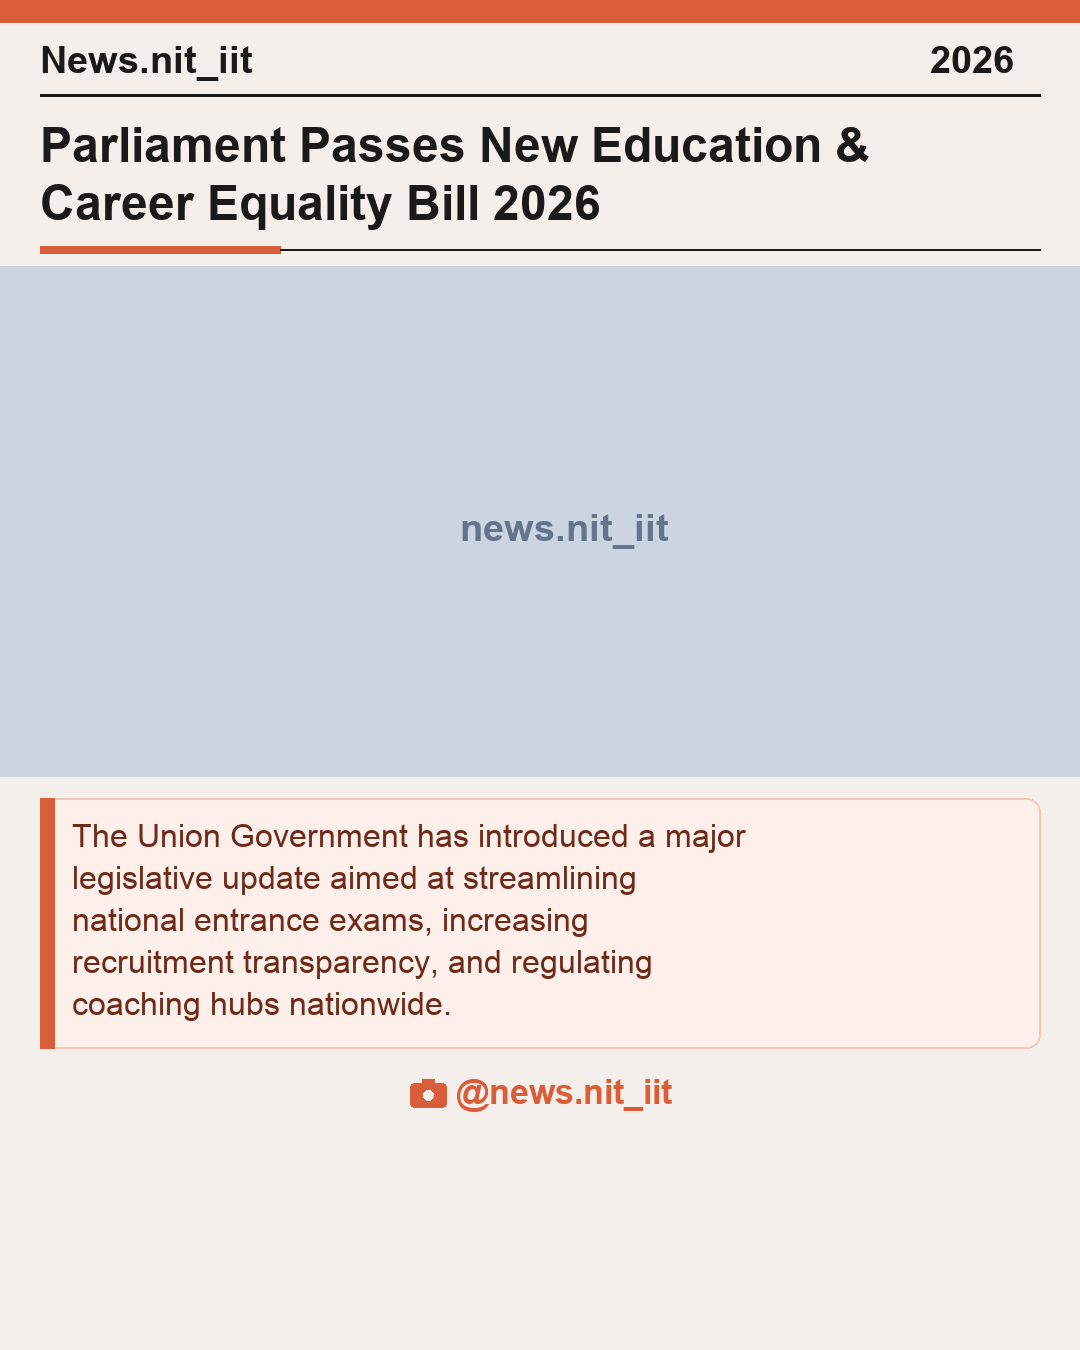
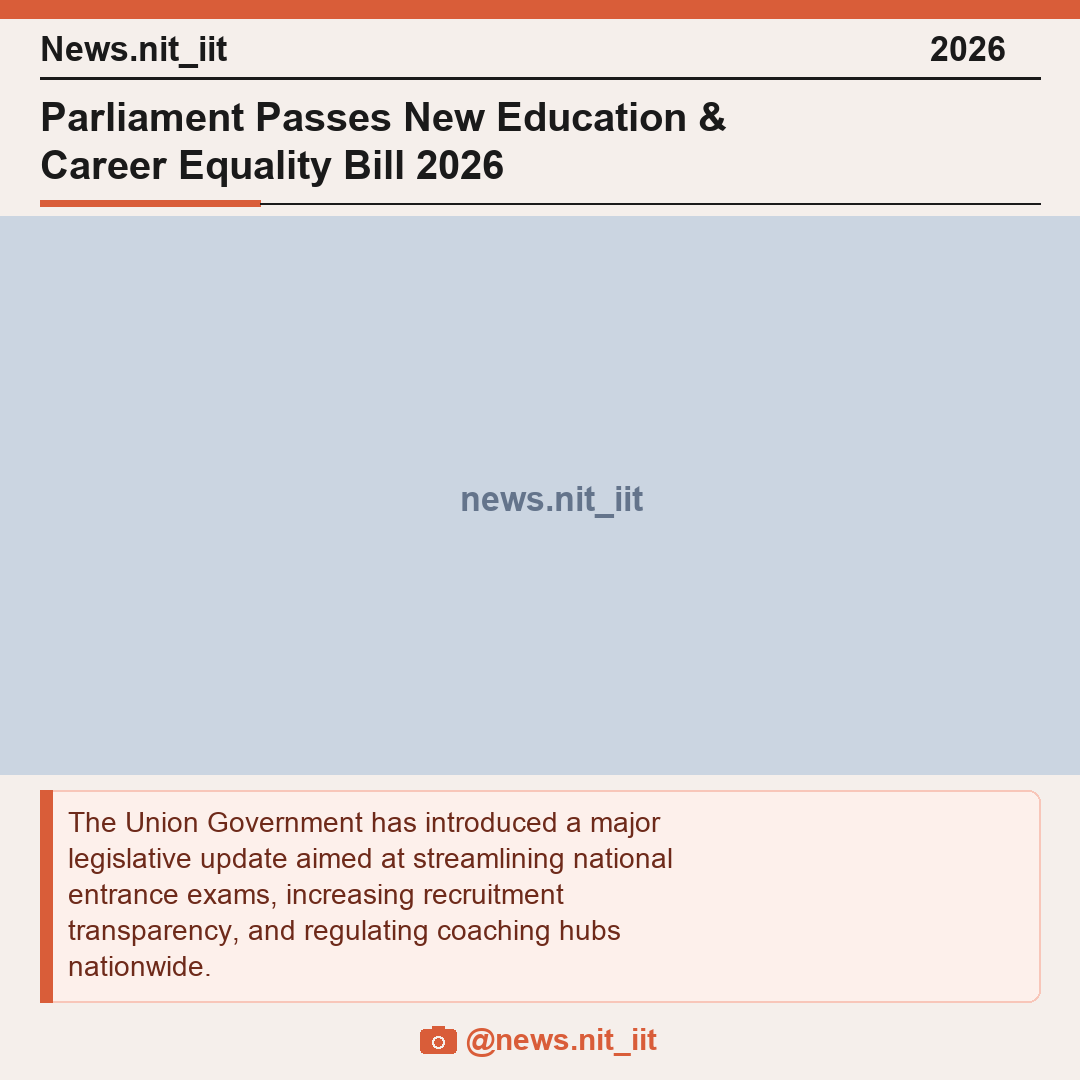
final

diff --git a/design_post.py b/design_post.py
@@ -1,9 +1,11 @@
 """
 design_post.py
-Generates 1080x1350 Instagram portrait posters matching the exact News.nit_iit template:
-- Fixed Headline Line Wrapping (1 & 2 lines fit naturally!)
-- Zero awkward blank gaps between headline, image, and summary box
-- Guaranteed Camera 📸 & Category icons rendering across all Mac/Linux machines
+Master 1080x1080 Square Poster Generator for @news.nit_iit:
+- Fixed 1080 x 1080 Square Instagram Post Ratio (1:1)
+- Fully Dynamic Headline (1 to 4 lines adjustable)
+- Fully Dynamic Summary Box (2 to 5 lines adjustable)
+- Smart Image Resizing (fills exact middle space with ZERO gaps)
+- Camera Logo & Username footer anchored at bottom
 """
 
 import os
@@ -15,25 +17,19 @@ BUCKET_COLORS = {
         "accent": "#D95D39", 
         "tint_bg": "#FDF0EB", 
         "tint_border": "#F8C6B9", 
-        "text_dark": "#6E2A1A", 
-        "badge_label": "🏛 POLITICS",
-        "default_emoji": "🏛"
+        "text_dark": "#6E2A1A",
     },
     "StudentEducation": {
         "accent": "#2A9D8F", 
         "tint_bg": "#EBF7F5", 
         "tint_border": "#B2E2DD", 
-        "text_dark": "#16524A", 
-        "badge_label": "📚 EDUCATION",
-        "default_emoji": "📚"
+        "text_dark": "#16524A",
     },
     "TechInnovation": {
         "accent": "#7209B7", 
         "tint_bg": "#F6EDFC", 
         "tint_border": "#D8B4F3", 
-        "text_dark": "#3B0561", 
-        "badge_label": "🚀 TECH & AI",
-        "default_emoji": "🚀"
+        "text_dark": "#3B0561",
     },
 }
 
@@ -41,13 +37,11 @@ DEFAULT_COLOR = {
     "accent": "#D95D39", 
     "tint_bg": "#FDF0EB", 
     "tint_border": "#F8C6B9", 
-    "text_dark": "#6E2A1A", 
-    "badge_label": "📩 NEWS",
-    "default_emoji": "📩"
+    "text_dark": "#6E2A1A",
 }
 
 
-def get_font(font_type="bold", size=36):
+def get_font(font_type="bold", size=32):
     """Loads text font for macOS, Linux, or Windows."""
     paths_to_try = []
     if font_type == "bold":
@@ -79,87 +73,45 @@ def get_font(font_type="bold", size=36):
         return ImageFont.load_default()
 
 
-def get_emoji_font(size=44):
-    """Loads Apple Color Emoji on Mac (with index=0) or Noto Color Emoji on Linux."""
-    emoji_configs = [
-        ("/System/Library/Fonts/Apple Color Emoji.ttc", 0),
-        ("/System/Library/Fonts/Apple Color Emoji.ttf", 0),
-        ("/Library/Fonts/Apple Color Emoji.ttc", 0),
-        ("/usr/share/fonts/truetype/noto/NotoColorEmoji.ttf", 0),
-    ]
-    for path, idx in emoji_configs:
-        try:
-            return ImageFont.truetype(path, size, index=idx)
-        except Exception:
-            try:
-                return ImageFont.truetype(path, size)
-            except Exception:
-                continue
-    return None
-
-
-def draw_camera_icon(draw, x, y, color):
-    """Draws a crisp camera icon vector graphic so camera logo ALWAYS displays cleanly!"""
-    # Camera Body
-    draw.rounded_rectangle([(x, y + 6), (x + 36, y + 30)], radius=4, fill=color)
-    # Camera Flash/Top Lens bump
-    draw.rectangle([(x + 12, y + 2), (x + 24, y + 6)], fill=color)
-    # Lens Circle
-    draw.ellipse([(x + 11, y + 11), (x + 25, y + 25)], fill="#F5EFEB", outline=color, width=2)
-
-
-def draw_color_emoji(draw, x, y, emoji_char, font_emoji):
-    """Draws a color emoji glyph safely."""
-    if emoji_char and font_emoji:
-        try:
-            draw.text((x, y - 2), emoji_char, font=font_emoji, embedded_color=True)
-            return True
-        except Exception:
-            pass
-    return False
+def draw_camera_logo(draw, x, y, color):
+    """Draws a crisp camera logo icon directly on the canvas."""
+    draw.rounded_rectangle([(x, y + 5), (x + 36, y + 29)], radius=4, fill=color)
+    draw.rectangle([(x + 12, y + 2), (x + 24, y + 5)], fill=color)
+    draw.ellipse([(x + 10, y + 10), (x + 26, y + 26)], fill="#F5EFEB", outline=color, width=2)
+    draw.ellipse([(x + 14, y + 14), (x + 22, y + 22)], fill=color)
 
 
 def create_card(headline, summary, image_path, bucket="StudentEducation", language="en", emoji=None, output_path="output/card.png"):
     """
-    Renders the exact News.nit_iit 1080x1350 template with zero blank gaps & crisp layout.
+    Renders a 1080x1080 Square Poster with fully dynamic headline, summary, and auto-filling image.
     """
     theme = BUCKET_COLORS.get(bucket, DEFAULT_COLOR)
     accent_color = theme["accent"]
-    head_emoji = emoji or theme["default_emoji"]
 
-    width, height = 1080, 1350
+    # 🔹 1:1 SQUARE INSTAGRAM POST RATIO (1080 x 1080)
+    width, height = 1080, 1080
     bg_color = "#F5EFEB"  # Off-white / Cream background
-    card = Image.new("RGBA", (width, height), (245, 239, 235, 255))
+    card = Image.new("RGB", (width, height), bg_color)
     draw = ImageDraw.Draw(card)
 
     # Load Fonts
-    font_header = get_font("bold", 38)
-    font_headline = get_font("bold", 48)
-    font_summary = get_font("regular", 32)
-    font_footer = get_font("bold", 34)
-    font_emoji = get_emoji_font(44)
+    font_header = get_font("bold", 34)
+    font_headline = get_font("bold", 40)
+    font_summary = get_font("regular", 28)
+    font_footer = get_font("bold", 30)
 
     # 1. Top Accent Stripe
-    draw.rectangle([(0, 0), (width, 22)], fill=accent_color)
+    draw.rectangle([(0, 0), (width, 18)], fill=accent_color)
 
     # 2. Header Bar (News.nit_iit ...... 2026)
-    draw.text((40, 38), "News.nit_iit", fill="#1A1A1A", font=font_header)
-    draw.text((930, 38), "2026", fill="#1A1A1A", font=font_header)
-    draw.line([(40, 95), (1040, 95)], fill="#1A1A1A", width=3)
+    draw.text((40, 30), "News.nit_iit", fill="#1A1A1A", font=font_header)
+    draw.text((930, 30), "2026", fill="#1A1A1A", font=font_header)
+    draw.line([(40, 78), (1040, 78)], fill="#1A1A1A", width=3)
 
-    # 3. Headline Section with Clean Line Wrapping (1 or 2 lines fit naturally!)
-    y_cursor = 118
-
-    # Clean headline text (remove leading emojis if passed in text)
+    # 3. FULLY DYNAMIC Headline Section (Fits 1, 2, 3, or 4 lines naturally!)
+    y_cursor = 94
     clean_headline = headline.strip()
-    if clean_headline and ord(clean_headline[0]) > 0x2000:
-        clean_headline = clean_headline[1:].strip()
 
-    # Draw Category Emoji / Icon
-    has_emoji = draw_color_emoji(draw, 40, y_cursor, head_emoji, font_emoji)
-    headline_x = 96 if has_emoji else 40
-
-    # 🔹 WIDER WRAPPING LIMIT (40 characters) -> Allows 1 and 2 line headlines to fit cleanly!
     words = clean_headline.split()
     headline_lines = []
     cur_line = ""
@@ -172,44 +124,22 @@ def create_card(headline, summary, image_path, bucket="StudentEducation", langua
     if cur_line:
         headline_lines.append(cur_line)
 
-    for i, line in enumerate(headline_lines[:3]):
-        draw_x = headline_x if i == 0 else 40
-        draw.text((draw_x, y_cursor), line, fill="#1A1A1A", font=font_headline)
-        y_cursor += 58
+    for line in headline_lines:
+        draw.text((40, y_cursor), line, fill="#1A1A1A", font=font_headline)
+        y_cursor += 48
 
     # Accent Underline
-    y_cursor += 12
-    draw.rectangle([(40, y_cursor), (280, y_cursor + 7)], fill=accent_color)
-    draw.line([(280, y_cursor + 3), (1040, y_cursor + 3)], fill="#1A1A1A", width=2)
+    y_cursor += 10
+    draw.rectangle([(40, y_cursor), (260, y_cursor + 6)], fill=accent_color)
+    draw.line([(260, y_cursor + 3), (1040, y_cursor + 3)], fill="#1A1A1A", width=2)
 
-    # 4. Middle Image Section (Full Width 1080px, Dynamic height to eliminate gaps!)
-    image_top = y_cursor + 20
-    # Image height automatically expands to fill middle space cleanly
-    image_height = 510 if len(headline_lines) <= 2 else 460
-
-    if image_path and os.path.exists(image_path):
-        try:
-            main_img = Image.open(image_path).convert("RGBA")
-            main_img = main_img.resize((1080, image_height), Image.Resampling.LANCZOS)
-            card.paste(main_img, (0, image_top))
-        except Exception as e:
-            print(f"Error placing image: {e}")
-            draw.rectangle([(0, image_top), (1080, image_top + image_height)], fill="#CBD5E1")
-    else:
-        # High quality neutral background placeholder if no photo
-        draw.rectangle([(0, image_top), (1080, image_top + image_height)], fill="#CBD5E1")
-        draw.text((460, image_top + (image_height // 2) - 15), "news.nit_iit", fill="#64748B", font=font_header)
-
-    # 5. DYNAMIC Summary Box Section
+    # 4. FULLY DYNAMIC Summary Box Calculation
     clean_summary = summary.strip()
-    if clean_summary and ord(clean_summary[0]) > 0x2000:
-        clean_summary = clean_summary[1:].strip()
-
     sum_words = clean_summary.split()
     sum_lines = []
     cur_sum = ""
     for w in sum_words:
-        if len(cur_sum + " " + w) < 46:
+        if len(cur_sum + " " + w) < 52:
             cur_sum += " " + w if cur_sum else w
         else:
             sum_lines.append(cur_sum)
@@ -217,42 +147,50 @@ def create_card(headline, summary, image_path, bucket="StudentEducation", langua
     if cur_sum:
         sum_lines.append(cur_sum)
 
-    display_lines = sum_lines[:5]
-    line_height = 42
-    box_top = image_top + image_height + 22
-    
-    box_padding_vertical = 20
-    content_height = (len(display_lines) * line_height) + (box_padding_vertical * 2)
-    box_bottom = min(1240, box_top + content_height)
+    display_summary_lines = sum_lines[:5]
+    line_height = 36
+    box_padding_vertical = 16
+    content_height = (len(display_summary_lines) * line_height) + (box_padding_vertical * 2)
+
+    # Anchor Footer at bottom of Square Card
+    footer_y = 1022
+    footer_center_x = 420
+    box_bottom = footer_y - 20
+    box_top = box_bottom - content_height
     box_left, box_right = 40, 1040
 
+    # 5. SMART MIDDLE IMAGE RESIZING (Fills exact middle space between headline & summary!)
+    image_top = y_cursor + 16
+    image_bottom = box_top - 16
+    image_height = max(260, image_bottom - image_top)
+
+    if image_path and os.path.exists(image_path):
+        try:
+            main_img = Image.open(image_path).convert("RGB")
+            main_img = main_img.resize((1080, image_height), Image.Resampling.LANCZOS)
+            card.paste(main_img, (0, image_top))
+        except Exception as e:
+            print(f"Error placing image: {e}")
+            draw.rectangle([(0, image_top), (1080, image_top + image_height)], fill="#CBD5E1")
+    else:
+        draw.rectangle([(0, image_top), (1080, image_top + image_height)], fill="#CBD5E1")
+        draw.text((460, image_top + (image_height // 2) - 15), "news.nit_iit", fill="#64748B", font=font_header)
+
     # Draw Dynamic Summary Box
-    draw.rounded_rectangle([(box_left, box_top), (box_right, box_bottom)], radius=14, fill=theme["tint_bg"], outline=theme["tint_border"], width=2)
-    draw.rectangle([(box_left, box_top), (box_left + 14, box_bottom)], fill=accent_color)
+    draw.rounded_rectangle([(box_left, box_top), (box_right, box_bottom)], radius=12, fill=theme["tint_bg"], outline=theme["tint_border"], width=2)
+    draw.rectangle([(box_left, box_top), (box_left + 12, box_bottom)], fill=accent_color)
 
     # Draw Summary Lines inside box
     sum_y = box_top + box_padding_vertical
-    has_sum_emoji = draw_color_emoji(draw, 72, sum_y, "📌", font_emoji)
-    sum_text_x = 120 if has_sum_emoji else 72
-
-    for i, line in enumerate(display_lines):
-        draw_x = sum_text_x if i == 0 else 72
-        draw.text((draw_x, sum_y), line, fill=theme["text_dark"], font=font_summary)
+    for line in display_summary_lines:
+        draw.text((68, sum_y), line, fill=theme["text_dark"], font=font_summary)
         sum_y += line_height
 
-    # 6. GUARANTEED Footer Watermark (📸 @news.nit_iit)
-    footer_y = min(1280, box_bottom + 25)
-    footer_center_x = 410
-
-    # Try color emoji first, fallback to crisp vector camera icon if font unsupported
-    has_cam = draw_color_emoji(draw, footer_center_x, footer_y, "📸", font_emoji)
-    if has_cam:
-        draw.text((footer_center_x + 52, footer_y), "@news.nit_iit", fill=accent_color, font=font_footer)
-    else:
-        draw_camera_icon(draw, footer_center_x, footer_y + 4, accent_color)
-        draw.text((footer_center_x + 46, footer_y), "@news.nit_iit", fill=accent_color, font=font_footer)
+    # 6. Footer Watermark (📸 @news.nit_iit)
+    draw_camera_logo(draw, footer_center_x, footer_y + 2, accent_color)
+    draw.text((footer_center_x + 46, footer_y), "@news.nit_iit", fill=accent_color, font=font_footer)
 
     os.makedirs(os.path.dirname(output_path), exist_ok=True)
-    card.convert("RGB").save(output_path)
-    print(f"  Poster card generated: {output_path}")
+    card.save(output_path)
+    print(f"  Square Poster Generated: {output_path} (Headline: {len(headline_lines)} lines, Summary: {len(display_summary_lines)} lines)")
     return output_path
